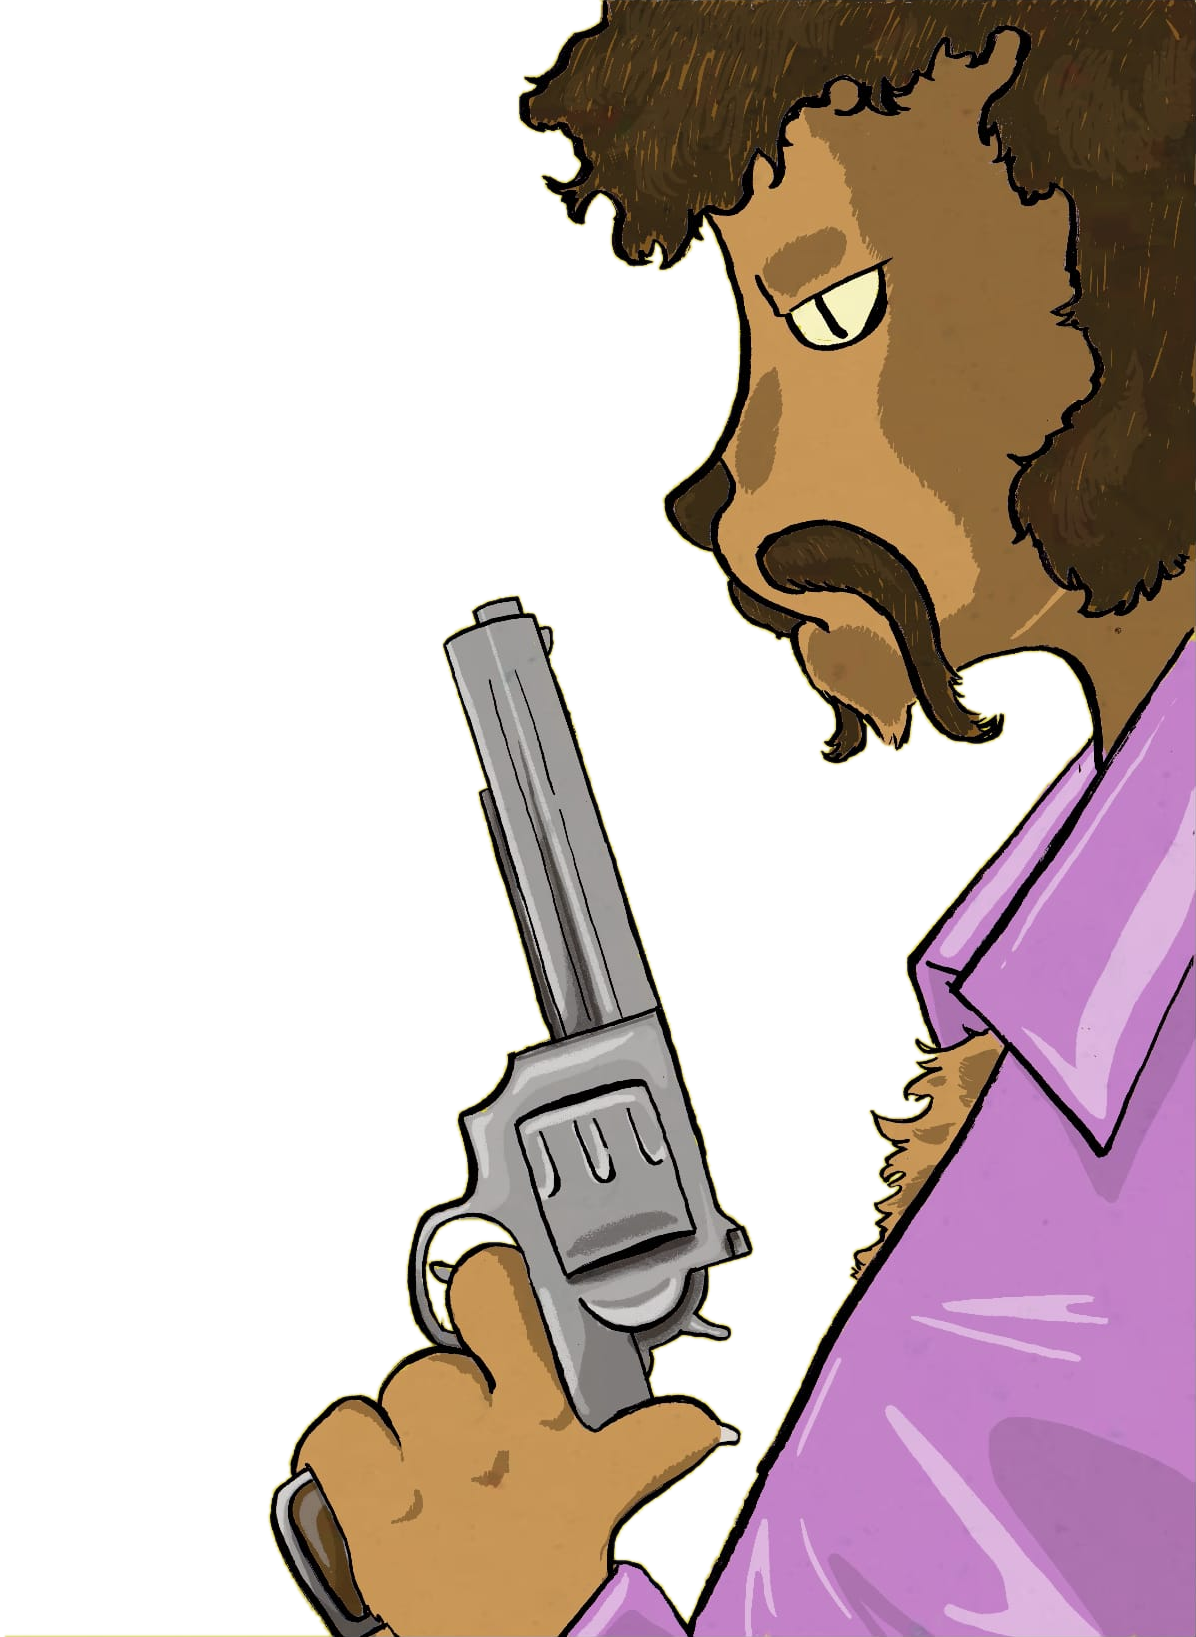
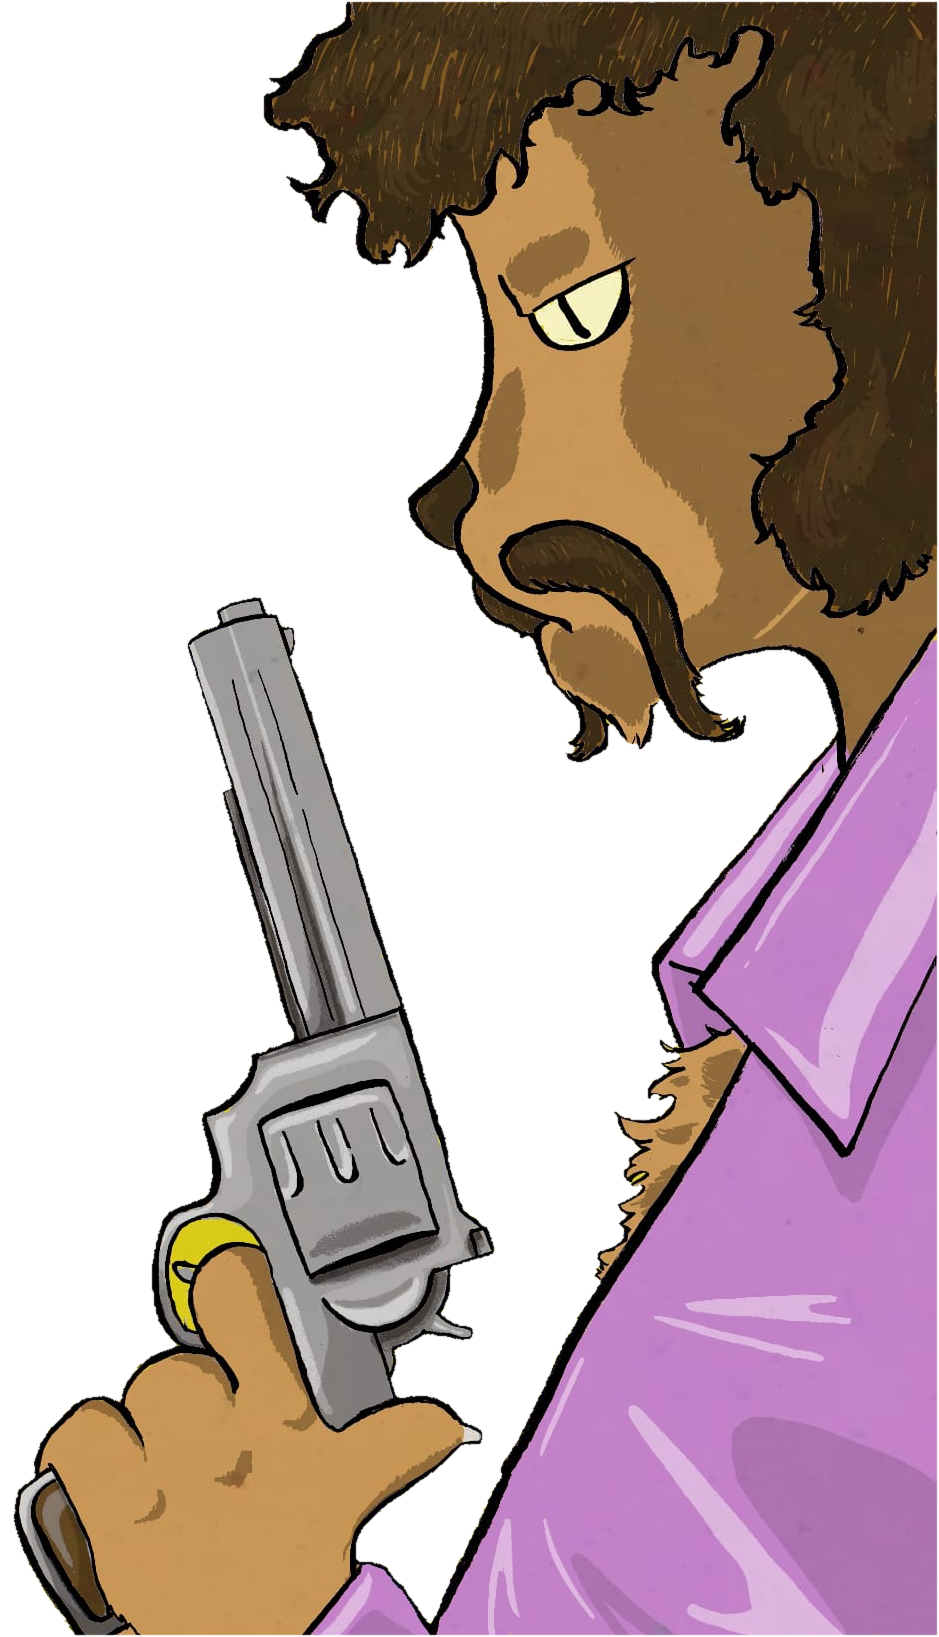
Corrige halo de fond et détails noirs perdus
- Supprime le halo de fond autour du sujet (ex. liseré jaune de Curtis) :
  érosion de 2 px du masque, qui n'entame que le cerne noir du dessin,
  et adoucissement de l'alpha réduit (0.6).
- Conserve les traits noirs internes (ex. micro de Dolores) : on ne perce
  plus tout pixel proche de la couleur de fond — un fond sombre (violet)
  est proche du noir et rendait transparents les détails du dessin. Le vrai
  fond reste retiré par connectivité aux bords ; les trous internes sont
  comblés pour garder le sujet plein.

Ticket #485.

diff --git a/scripts/detourer-images.py b/scripts/detourer-images.py
@@ -46,7 +46,10 @@ DARK_THRESH = 80      # un pixel est « noir » si max(R,G,B) < ce seuil
 FRAME_MAX = 0.10      # épaisseur de cadre détectable, en fraction du côté
 FRAME_FILL = 0.85     # fraction de pixels noirs pour considérer une ligne de cadre
 CROP_MARGIN = 12      # marge conservée autour du sujet, en pixels
-FEATHER = 1.0         # adoucissement des bords (rayon de flou de l'alpha)
+SHRINK = 2            # érosion du masque (px) : mange les bords anticrénelés
+                      # teintés par le fond (le cerne noir du dessin absorbe
+                      # la perte → invisible) et supprime ainsi le halo
+FEATHER = 0.6         # adoucissement des bords (rayon de flou de l'alpha)
 
 
 def trim_frame(rgb):
@@ -87,13 +90,23 @@ def cutout_alpha(rgb):
     background = np.isin(lbl, edge_labels)
 
     # Personnage = la plus grande zone opaque (élimine texte/îlots flottants).
+    # On NE perce PAS les pixels « couleur de fond » à l'intérieur du sujet :
+    # un fond sombre (ex. violet de Dolores) est proche du noir, et percer
+    # rendrait transparents les traits noirs du dessin (cernes, micro...).
+    # Le vrai fond reste transparent car retiré via `background` (relié aux
+    # bords) ; les trous internes sont comblés pour garder le sujet plein.
     fg = ~background
     comp, n = ndimage.label(fg)
     if n == 0:
         return np.zeros(rgb.shape[:2], np.uint8)
     sizes = np.bincount(comp.ravel())
     sizes[0] = 0
-    keep = (comp == sizes.argmax()) & ~bg_like  # perce les trous de fond enfermés
+    keep = ndimage.binary_fill_holes(comp == sizes.argmax())
+
+    # Rétrécit le sujet pour éliminer l'anneau de pixels de bord teintés par
+    # le fond (halo). N'entame que le cerne noir du dessin → imperceptible.
+    if SHRINK:
+        keep = ndimage.binary_erosion(keep, iterations=SHRINK)
 
     alpha = np.where(keep, 255, 0).astype(np.uint8)
     if FEATHER: